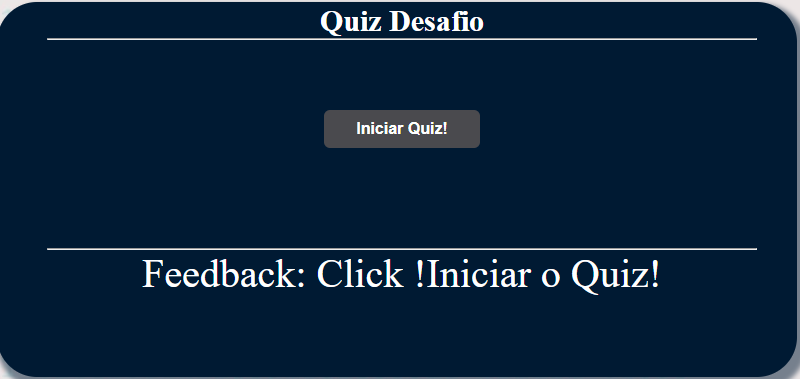
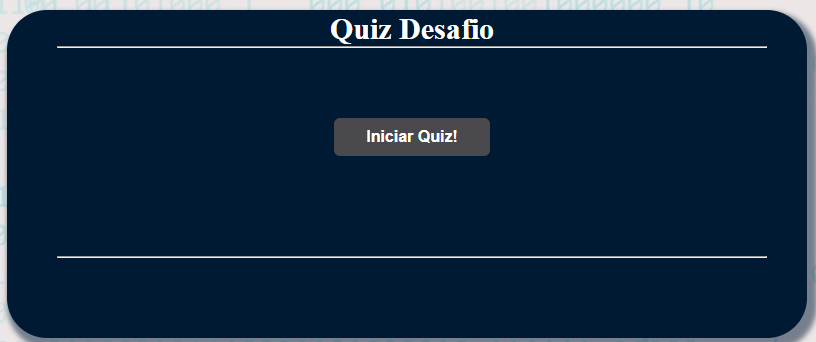
desafio

Changed region(s): [[0.0, 0.0, 1.0, 1.0], [0.0625, 0.6433, 0.9375, 0.7895], [0.4062, 0.2924, 0.625, 0.4678]]

diff --git a/desafio_desenvolve_1/index.js b/desafio_desenvolve_1/index.js
@@ -292,3 +292,16 @@ nextQuestionButton.addEventListener('click', function() {
     displayNextQuestion();
 });
 
+
+
+//hide feedback e aparecer apos finalizar
+document.addEventListener('DOMContentLoaded', function() {
+  const feedbackElement = document.getElementById('feedback');
+  
+  feedbackElement.style.display = 'none';
+  const startQuizButton = document.querySelector('.start-quiz');
+  startQuizButton.addEventListener('click', function() {
+      feedbackElement.style.display = 'block';
+      startQuizButton.style.display = 'none';
+  });
+});

diff --git a/desafio_desenvolve_1/index.html b/desafio_desenvolve_1/index.html
@@ -42,7 +42,7 @@
        <!-- info quiz -->
 			<hr style="margin-top: 100px;">
 			<footer>
-				<div id="feedback"> Feedback: Click !Iniciar o Quiz!</div>
+				<div id="feedback"> Feedback: Click Iniciar Quiz para refazer!</div>
 			</footer>
 
   </div>
